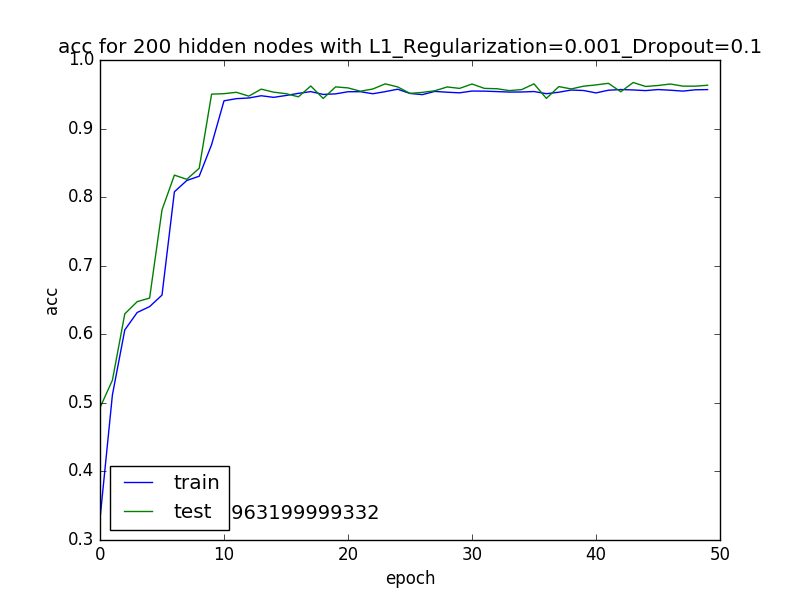
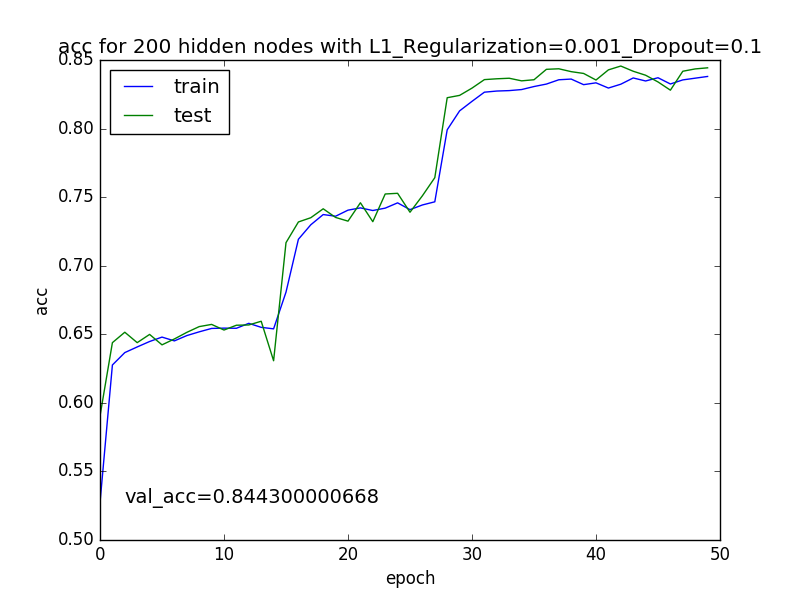
blabla

diff --git a/Tarefa5/FC2Layer_Mnist.py b/Tarefa5/FC2Layer_Mnist.py
@@ -25,6 +25,7 @@ SHOW_GRAPHS = 0
 SAVE_GRAPHS = 1
 SHOW_LOSS = 1
 SHOW_ACC = 1
+SAVE_CSV = 1
 
 # fix random seed for reproducibility
 SEED = 7
@@ -36,10 +37,10 @@ EPOCH = 50
 
 
 # Model Options
-l1Reg = [0.001] # 
-l2Reg = [0.001] # 
-dropout = [0.1]
-hidden_nodes = [200, 500, 784, 1000, 2000] 
+l1Reg = [0.01]#[0,0.0001,0.0005,0.001,0.005] # 
+l2Reg = [0.01]#[0,0.0001,0.0005,0.001,0.005] # 
+dropout = [0.1]#[0.2]
+hidden_nodes = [500] #[200, 500, 784] 
 
 ########################
 #FUNCTIONS
@@ -92,8 +93,8 @@ num_pixels = X.shape[1]*X.shape[2]
 X = X.reshape(X.shape[0],num_pixels).astype('float32')
 X_test = X_test.reshape(X_test.shape[0],num_pixels).astype('float32')
 # Data Preprocessing
-X -= numpy.mean(X)
-X_test -= numpy.mean(X_test)
+#X -= numpy.mean(X)
+#X_test -= numpy.mean(X)
 # hot encode outputs
 Y = np_utils.to_categorical(Y)
 Y_test = np_utils.to_categorical(Y_test)
@@ -102,7 +103,10 @@ num_classes = Y_test.shape[1]
 print("----------------------------------")
 print("Using Batch =",BATCHSIZE ,"Epoch = ",EPOCH)
 
-regStr = " "
+#define csv variable
+if SAVE_CSV == 1:
+	csvArray = numpy.array(["hidden_nodes","l2Reg","dropout","val_acc","acc","val_loss","loss"])
+
 
 # define baseline model
 def baseline_model(nodes):
@@ -119,18 +123,16 @@ for h in range(0, len(hidden_nodes)):
 			# create model
 			model = Sequential()
 			# creates layer with hidden_nodes nodes and chooses which regularization it will use
-			model.add(Dense(hidden_nodes[h], input_dim=num_pixels, init='normal', activation='relu', W_regularizer = l1(l1Reg[i])))
-			regStr = "L1_Regularization="+str(l1Reg[i])#+" L2_Regularization="+str(l2Reg)
+			model.add(Dense(hidden_nodes[h], input_dim=num_pixels, init='he_normal', activation='relu'))#, W_regularizer = l2(l2Reg[i])))
+			regStr = "L2_Regularization="+str(l2Reg[i])#+" L2_Regularization="+str(l2Reg)
 			model.add(Dropout(dropout[j]))
 			regStr = regStr+"_Dropout=%.1f"%dropout[j]
 			# output layer
-			model.add(Dense(num_classes, init='normal', activation='softmax'))
+			model.add(Dense(num_classes, init='he_normal', activation='softmax'))
 			print("Added",regStr)
 			# Compile model
 			model.compile(loss='categorical_crossentropy', optimizer='adam', metrics=['accuracy'])
 			history = model.fit(X,Y,validation_data=(X_test,Y_test),nb_epoch=EPOCH,batch_size=BATCHSIZE,verbose=2)
-			#print("val_acc = %.4f"%history.history["val_acc"][EPOCH-1]," acc = %.4f"%history.history["acc"][EPOCH-1])	
-			#print("val_loss = %.4f"%history.history["val_loss"][EPOCH-1]," loss = %.4f"%history.history["loss"][EPOCH-1])	
 			# Show time elapsed
 			print("Elapsed time = ",str(timedelta(seconds=(time.time()-start_time))))
 			# Storing history
@@ -138,12 +140,19 @@ for h in range(0, len(hidden_nodes)):
 			val_acc = numpy.array(history.history['val_acc'])
 			loss = numpy.array(history.history['loss'])
 			val_loss = numpy.array(history.history['val_loss'])
+			# Storing in csvArray
+			if SAVE_CSV:
+				a = numpy.array([hidden_nodes[h],l1Reg[i],dropout[j],val_acc[EPOCH-1],acc[EPOCH-1],val_loss[EPOCH-1],loss[EPOCH-1]])
+				csvArray = numpy.vstack([csvArray,a])
 			# Plotting
 			if SHOW_ACC == 1:
 				plotGraph(regStr,nodes=hidden_nodes[h], vecTrain=acc, vecTest=val_acc, nameVec="acc")
 			if SHOW_LOSS == 1:
 				plotGraph(regStr,nodes=hidden_nodes[h], vecTrain=loss, vecTest=val_loss, nameVec="loss")
 
+if SAVE_CSV:
+	print("Saving results to test.csv")
+	numpy.savetxt("test.csv",csvArray,delimiter=",",fmt="%s")
 
 print("----------------------------------")
 # eof
